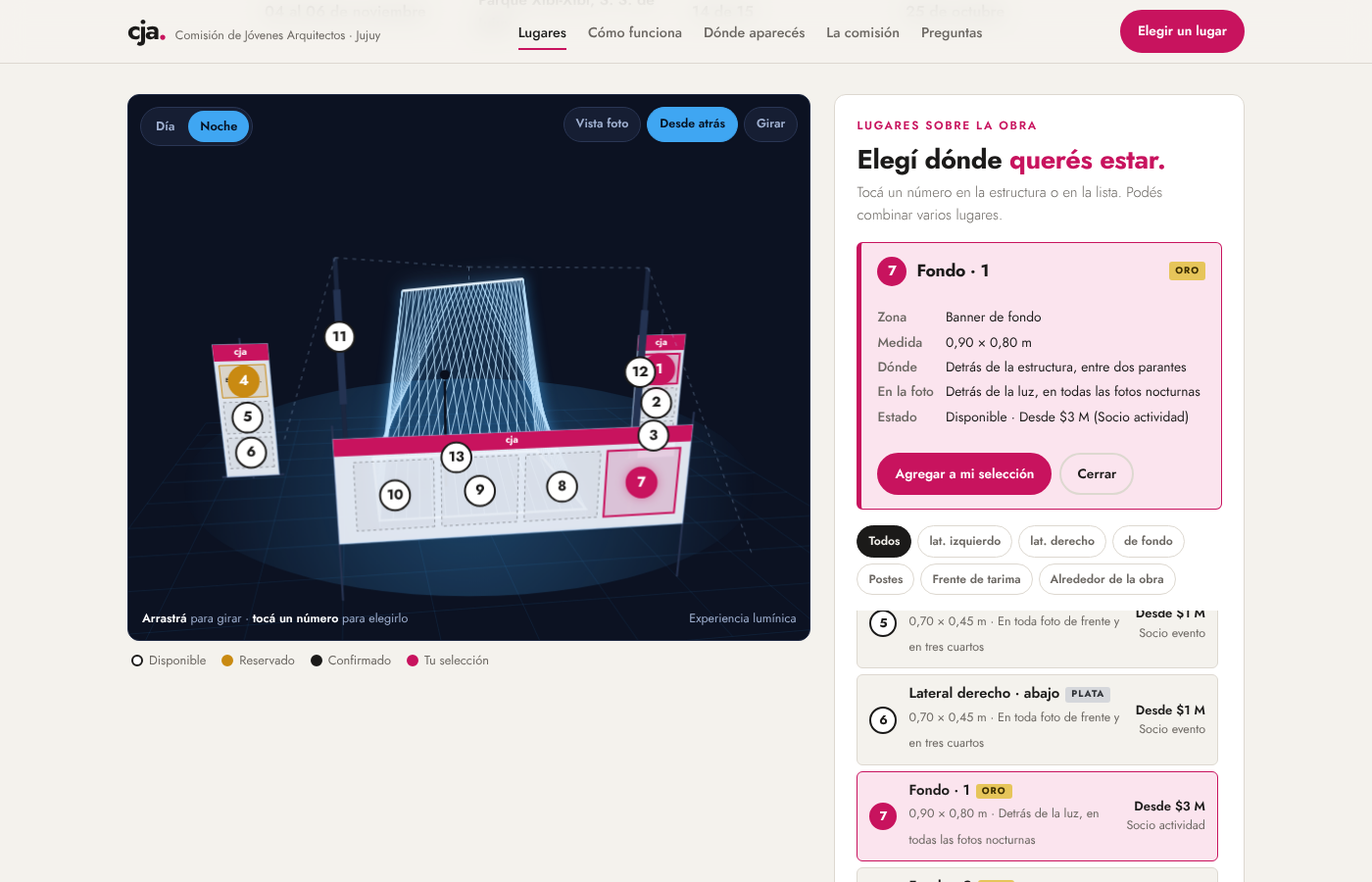
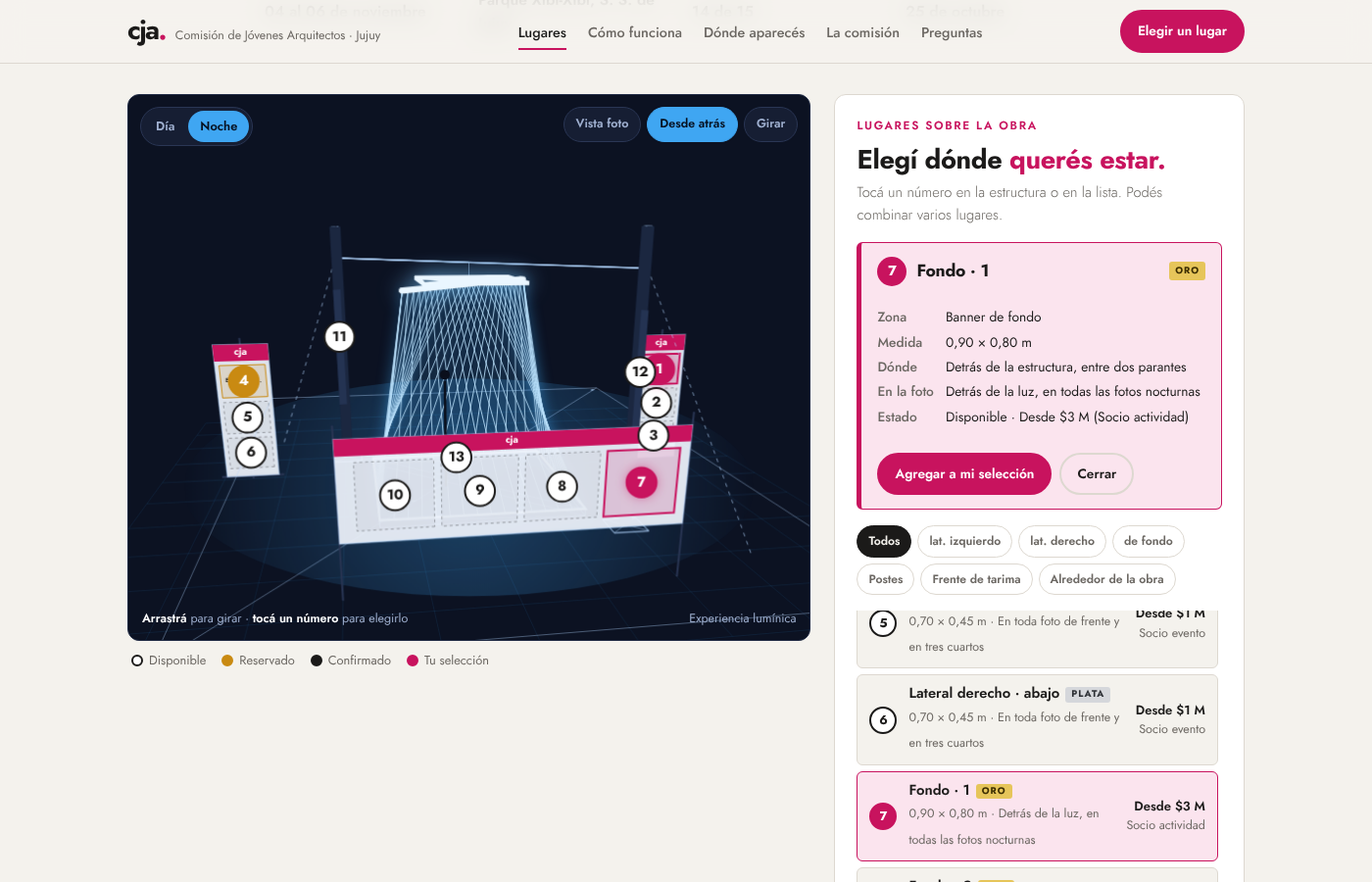
feat(sitio-cja): estructura del visor desde el GLB exportado de SketchUp
content/modelo.js con las líneas de tarima, viga, postes de 4 m, cable y
riendas extraídas de publicidad.glb. Los hilos se generan en app.js cada
0,20 m con la regla medida en el modelo (el GLB no exporta líneas).

Claude-Session: https://claude.ai/code/session_01AcELABFY21tac7ncyxPKsw

Changed region(s): [[0.2457, 0.2489, 0.4914, 0.4978], [0.215, 0.2489, 0.2457, 0.28]]

diff --git a/sitio-cja/content/modelo.js b/sitio-cja/content/modelo.js
@@ -1,0 +1,3 @@
+/* Estructura exportada de publicidad.skp (GLB). Metros: x derecha, y fondo, z arriba; origen en el centro de la tarima.
+   Generado automáticamente. Los hilos no vienen en el GLB (son líneas en SketchUp) y se generan en app.js con la regla medida en el archivo. */
+window.CJA_MODELO=[["cable",[1.924,-1.92,3.517],[-1.919,1.923,3.516]],["cable",[-1.925,1.917,3.515],[1.919,-1.926,3.515]],["cable",[-1.924,1.918,3.518],[1.92,-1.925,3.519]],["cable",[1.924,-1.921,3.513],[-1.92,1.922,3.512]],["cable",[1.92,-1.925,3.512],[-1.924,1.918,3.513]],["rienda",[-1.974,1.982,3.516],[-3.199,3.2,0.001]],["cable",[-1.924,1.918,3.514],[1.919,-1.926,3.515]],["cable",[-1.919,1.923,3.515],[1.924,-1.921,3.514]],["viga",[0.746,-0.743,3.515],[1.924,-1.92,3.516]],["viga",[1.924,-1.921,3.514],[0.746,-0.743,3.515]],["viga",[-1.919,1.923,3.516],[0.003,0.001,3.515]],["viga",[0.003,0.001,3.515],[1.924,-1.921,3.514]],["viga",[0.003,0.001,3.515],[0.746,-0.743,3.515]],["rienda",[-1.975,1.982,3.516],[-3.2,3.2,0.001]],["viga",[1.924,-1.92,3.516],[0.003,0.001,3.515]],["rienda",[3.198,-3.204,0.001],[1.978,-1.982,3.516]],["rienda",[3.197,-3.205,0.001],[1.976,-1.983,3.516]],["estructura",[3.83,4.672,0.001],[3.83,-7.288,0.001]],["estructura",[3.83,-7.288,0.001],[-4.53,-7.288,0.001]],["estructura",[3.83,4.672,0.001],[-4.53,-7.288,0.001]],["estructura",[-4.53,-7.288,0.001],[-4.53,4.672,0.001]],["estructura",[-4.53,4.672,0.001],[3.83,4.672,0.001]],["estructura",[-4.365,-6.988,0.021],[-4.316,-6.979,0.009]],["estructura",[-4.316,-6.979,0.009],[-4.284,-6.973,0.017]],["estructura",[-4.365,-6.988,0.021],[-4.284,-6.973,0.017]],["estructura",[-4.336,-6.983,0.022],[-4.284,-6.973,0.017]],["estructura",[-4.317,-6.979,0.025],[-4.284,-6.973,0.017]],["estructura",[-1.5,1.495,0.131],[-1.5,-0.502,0.131]],["estructura",[-1.5,1.498,0.131],[-1.5,1.498,0.101]],["estructura",[-1.5,1.495,0.101],[-1.47,1.495,0.104]],["estructura",[-1.497,1.495,0.104],[-1.497,-0.502,0.131]],["estructura",[-1.497,-0.502,0.104],[-1.497,1.495,0.104]],["estructura",[-1.5,-0.502,0.131],[-1.5,-0.502,0.101]],["estructura",[-1.5,1.495,0.131],[-1.5,-0.502,0.101]],["estructura",[-1.47,-0.502,0.101],[-1.47,1.495,0.104]],["estructura",[-1.497,1.495,0.104],[-1.47,-0.502,0.104]],["estructura",[-2.2,2.198,0.011],[-1.7,2.198,0.011]],["estructura",[-1.7,2.198,0.011],[-2.2,2.198,0.001]],["estructura",[-2.2,2.198,0.001],[-1.7,2.198,0.001]],["estructura",[-1.7,1.698,0.001],[-1.7,2.198,0.001]],["estructura",[-1.7,1.698,0.001],[-1.7,2.198,0.011]],["estructura",[-1.7,2.198,0.011],[-1.7,1.698,0.011]],["estructura",[-2.2,1.698,0.011],[-1.95,1.948,0.011]],["estructura",[-2.2,2.198,0.011],[-2.2,1.698,0.011]],["estructura",[-1.95,1.948,0.011],[-2.2,2.198,0.011]],["estructura",[-2.2,1.698,0.001],[-1.7,1.698,0.001]],["estructura",[-2.2,1.698,0.001],[-1.7,1.698,0.011]],["estructura",[-1.7,1.698,0.011],[-2.2,1.698,0.011]],["estructura",[-2.2,2.198,0.011],[-2.2,1.698,0.001]],["estructura",[-2.2,1.698,0.001],[-2.2,2.198,0.001]],["estructura",[-1.95,1.948,0.011],[-1.7,2.198,0.011]],["estructura",[-1.7,1.698,0.011],[-1.95,1.948,0.011]],["estructura",[-1.5,-1.502,0.001],[1.5,-1.502,0.001]],["estructura",[-1.5,-1.502,0.001],[-1.5,1.498,0.001]],["estructura",[1.5,-1.502,0.001],[-1.5,1.498,0.001]],["estructura",[-1.5,1.498,0.001],[1.5,1.498,0.001]],["estructura",[1.5,-1.502,0.001],[1.5,1.498,0.001]],["estructura",[1.5,1.498,0.001],[1.5,1.498,0.101]],["estructura",[-1.5,1.498,0.001],[1.5,1.498,0.101]],["estructura",[-1.5,1.495,0.104],[1.5,1.495,0.104]],["estructura",[-1.5,1.498,0.001],[-1.5,1.498,0.101]],["estructura",[1.5,-1.499,0.104],[-1.5,-1.499,0.104]],["estructura",[-1.5,-1.502,0.101],[-1.5,-1.502,0.001]],["estructura",[1.5,-1.502,0.101],[-1.5,-1.502,0.001]],["estructura",[1.5,-1.502,0.101],[1.5,-1.502,0.001]],["estructura",[1.5,1.498,0.101],[1.5,-1.502,0.101]],["estructura",[-1.5,1.498,0.101],[1.5,-1.502,0.101]],["estructura",[-1.5,1.498,0.101],[-1.5,-1.502,0.101]],["estructura",[-1.5,-1.502,0.001],[-1.5,1.498,0.101]],["estructura",[1.5,1.498,0.101],[1.5,-1.502,0.001]],["estructura",[1.5,1.498,0.131],[-1.5,1.498,0.131]],["estructura",[1.5,1.498,0.101],[1.5,1.498,0.131]],["estructura",[1.5,1.495,0.104],[-1.5,1.495,0.131]],["estructura",[1.5,1.498,0.131],[-1.5,1.498,0.101]],["estructura",[-1.5,1.468,0.101],[1.5,1.468,0.104]],["estructura",[1.5,1.495,0.104],[-1.5,1.468,0.104]],["estructura",[1.5,0.498,0.131],[1.5,-1.499,0.131]],["estructura",[1.5,-1.502,0.101],[1.5,-1.502,0.131]],["estructura",[1.47,-1.499,0.101],[1.5,-1.499,0.101]],["estructura",[1.497,0.498,0.104],[1.497,-1.499,0.131]],["estructura",[1.497,0.498,0.104],[1.497,-1.499,0.104]],["estructura",[1.5,0.498,0.101],[1.5,0.498,0.131]],["estructura",[1.5,-1.499,0.101],[1.5,0.498,0.131]],["estructura",[1.47,0.498,0.104],[1.47,-1.499,0.101]],["estructura",[1.497,-1.499,0.104],[1.47,0.498,0.104]],["estructura",[1.7,-1.702,0.011],[2.2,-1.702,0.011]],["estructura",[2.2,-1.702,0.011],[1.7,-1.702,0.001]],["estructura",[1.7,-1.702,0.001],[2.2,-1.702,0.001]],["estructura",[2.2,-2.202,0.001],[2.2,-1.702,0.001]],["estructura",[2.2,-2.202,0.001],[2.2,-1.702,0.011]],["estructura",[2.2,-1.702,0.011],[2.2,-2.202,0.011]],["estructura",[1.7,-2.202,0.011],[1.95,-1.952,0.011]],["estructura",[1.7,-1.702,0.011],[1.7,-2.202,0.011]],["estructura",[1.95,-1.952,0.011],[1.7,-1.702,0.011]],["estructura",[1.7,-2.202,0.001],[2.2,-2.202,0.001]],["estructura",[1.7,-2.202,0.001],[2.2,-2.202,0.011]],["estructura",[2.2,-2.202,0.011],[1.7,-2.202,0.011]],["estructura",[1.7,-1.702,0.011],[1.7,-2.202,0.001]],["estructura",[1.7,-2.202,0.001],[1.7,-1.702,0.001]],["estructura",[1.95,-1.952,0.011],[2.2,-1.702,0.011]],["estructura",[2.2,-2.202,0.011],[1.95,-1.952,0.011]],["estructura",[0.922,0.796,0.121],[0.971,0.805,0.11]],["estructura",[0.971,0.805,0.11],[1.003,0.811,0.118]],["estructura",[0.922,0.796,0.121],[1.003,0.811,0.118]],["estructura",[0.951,0.801,0.123],[1.003,0.811,0.118]],["estructura",[0.971,0.805,0.125],[1.003,0.811,0.118]],["estructura",[1.5,-1.502,0.131],[-1.5,-1.502,0.131]],["estructura",[-1.5,-1.502,0.131],[-1.5,-1.502,0.101]],["estructura",[1.5,-1.499,0.104],[-1.5,-1.499,0.131]],["estructura",[-1.5,-1.502,0.101],[1.5,-1.502,0.131]],["estructura",[1.5,-1.472,0.104],[-1.5,-1.472,0.101]],["estructura",[-1.5,-1.499,0.104],[1.5,-1.472,0.104]],["viga",[-0.717,0.723,3.248],[-0.741,0.747,3.248]],["viga",[-0.741,0.747,3.248],[-0.717,0.706,3.248]],["viga",[-0.741,0.747,3.248],[0.746,0.747,3.248]],["viga",[-0.717,0.723,3.248],[0.746,0.747,3.248]],["viga",[-0.741,-0.741,3.248],[-0.741,0.747,3.248]],["viga",[-0.741,-0.741,3.248],[-0.717,0.706,3.248]],["viga",[0.706,0.723,3.248],[-0.717,0.723,3.248]],["viga",[0.706,0.723,3.248],[0.746,0.747,3.248]],["viga",[-0.717,-0.7,3.248],[-0.717,0.706,3.248]],["viga",[-0.741,-0.741,3.248],[-0.717,-0.7,3.248]],["viga",[0.723,0.723,3.248],[0.746,0.747,3.248]],["viga",[-0.741,-0.741,3.248],[-0.717,-0.717,3.248]],["viga",[0.723,0.706,3.248],[0.746,0.747,3.248]],["viga",[-0.741,-0.741,3.248],[0.746,-0.741,3.248]],["viga",[0.746,-0.741,3.248],[-0.717,-0.717,3.248]],["viga",[0.723,-0.7,3.248],[0.723,0.706,3.248]],["viga",[0.723,-0.7,3.248],[0.746,0.747,3.248]],["viga",[0.746,-0.741,3.248],[-0.701,-0.717,3.248]],["viga",[0.723,-0.717,3.248],[0.746,0.747,3.248]],["viga",[-0.701,-0.717,3.248],[0.723,-0.717,3.248]],["viga",[0.746,-0.741,3.248],[0.723,-0.717,3.248]],["viga",[0.746,-0.741,3.248],[0.746,0.747,3.248]],["viga",[-0.717,0.723,3.276],[-0.741,0.747,3.276]],["viga",[-0.741,0.747,3.276],[-0.717,0.706,3.276]],["viga",[0.746,0.747,3.276],[-0.741,0.747,3.276]],["viga",[-0.717,0.723,3.276],[0.746,0.747,3.276]],["viga",[-0.741,0.747,3.276],[-0.741,-0.741,3.276]],["viga",[-0.741,-0.741,3.276],[-0.717,0.706,3.276]],["viga",[0.706,0.723,3.276],[-0.717,0.723,3.276]],["viga",[0.706,0.723,3.276],[0.746,0.747,3.276]],["viga",[-0.717,0.706,3.276],[-0.717,-0.7,3.276]],["viga",[-0.741,-0.741,3.276],[-0.717,-0.7,3.276]],["viga",[0.723,0.723,3.276],[0.746,0.747,3.276]],["viga",[-0.741,-0.741,3.276],[-0.717,-0.717,3.276]],["viga",[0.723,0.706,3.276],[0.746,0.747,3.276]],["viga",[0.746,-0.741,3.276],[-0.741,-0.741,3.276]],["viga",[0.746,-0.741,3.276],[-0.717,-0.717,3.276]],["viga",[0.723,0.706,3.276],[0.723,-0.7,3.276]],["viga",[0.723,-0.7,3.276],[0.746,0.747,3.276]],["viga",[0.746,-0.741,3.276],[-0.701,-0.717,3.276]],["viga",[0.723,-0.717,3.276],[0.746,0.747,3.276]],["viga",[0.723,-0.717,3.276],[-0.701,-0.717,3.276]],["viga",[0.746,-0.741,3.276],[0.723,-0.717,3.276]],["viga",[0.746,0.747,3.276],[0.746,-0.741,3.276]],["viga",[0.746,-0.741,3.276],[-0.741,-0.741,3.248]],["viga",[-0.741,0.747,3.248],[0.746,0.747,3.276]],["viga",[-0.701,0.723,3.276],[-0.717,0.723,3.248]],["viga",[-0.717,0.706,3.276],[-0.717,-0.7,3.248]],["viga",[-0.717,-0.717,3.248],[-0.701,-0.717,3.276]],["viga",[0.723,-0.7,3.248],[0.723,0.706,3.276]],["viga",[0.706,0.723,3.276],[-0.701,0.723,3.276]],["viga",[0.706,0.723,3.276],[-0.701,0.723,3.248]],["viga",[-0.701,0.723,3.248],[0.706,0.723,3.248]],["viga",[0.723,0.723,3.276],[0.706,0.723,3.248]],["viga",[0.746,0.747,3.276],[0.746,-0.741,3.248]],["viga",[0.723,0.706,3.248],[0.723,0.723,3.276]],["viga",[-0.701,-0.717,3.248],[0.723,-0.717,3.276]],["viga",[0.723,-0.717,3.248],[0.723,-0.7,3.276]],["viga",[-0.717,-0.7,3.276],[-0.717,-0.717,3.248]],["viga",[-0.717,0.723,3.276],[-0.717,0.706,3.248]],["viga",[-0.741,-0.741,3.248],[-0.741,0.747,3.276]],["viga",[-0.717,-0.7,3.276],[-0.014,0.003,3.276]],["viga",[-0.014,0.003,3.276],[-0.717,-0.7,3.248]],["viga",[-0.717,-0.7,3.248],[-0.014,0.003,3.248]],["viga",[-0.701,0.723,3.248],[-0.005,0.028,3.248]],["viga",[-0.005,0.028,3.248],[-0.701,0.723,3.276]],["viga",[-0.701,0.723,3.276],[0.003,0.02,3.276]],["viga",[-0.701,0.723,3.276],[0.003,0.02,3.248]],["viga",[0.003,0.02,3.276],[0.706,0.723,3.276]],["viga",[0.706,0.723,3.276],[0.003,0.02,3.248]],["viga",[0.003,0.02,3.248],[0.706,0.723,3.248]],["viga",[-0.014,0.003,3.276],[-0.717,0.706,3.276]],["viga",[-0.717,0.706,3.276],[-0.014,0.003,3.248]],["viga",[-0.014,0.003,3.248],[-0.717,0.706,3.248]],["viga",[0.705,-0.716,3.248],[0.723,-0.717,3.276]],["viga",[0.723,0.706,3.248],[0.019,0.003,3.248]],["viga",[0.019,0.003,3.248],[0.723,0.706,3.276]],["viga",[0.723,0.706,3.276],[0.019,0.003,3.276]],["viga",[0.019,0.003,3.248],[0.723,-0.7,3.248]],["viga",[0.723,-0.7,3.248],[0.019,0.003,3.276]],["viga",[0.019,0.003,3.276],[0.723,-0.7,3.276]],["viga",[0.705,-0.716,3.276],[0.003,-0.014,3.276]],["viga",[0.003,-0.014,3.276],[0.705,-0.716,3.248]],["viga",[0.705,-0.716,3.248],[0.003,-0.014,3.248]],["viga",[0.003,-0.014,3.276],[-0.701,-0.717,3.276]],["viga",[0.003,-0.014,3.276],[-0.717,-0.717,3.276]],["viga",[-0.717,-0.717,3.276],[-0.014,0.003,3.276]],["viga",[-0.014,0.003,3.276],[-0.717,0.723,3.276]],["viga",[-0.717,0.723,3.276],[0.003,0.02,3.276]],["viga",[0.003,0.02,3.276],[0.723,0.723,3.276]],["viga",[0.723,0.723,3.276],[0.019,0.003,3.276]],["viga",[0.019,0.003,3.276],[0.723,-0.717,3.276]],["viga",[0.723,-0.717,3.276],[0.003,-0.014,3.276]],["viga",[0.003,-0.014,3.276],[0.003,0.02,3.276]],["viga",[0.003,-0.014,3.248],[-0.701,-0.717,3.248]],["viga",[-0.701,-0.717,3.248],[0.003,-0.014,3.276]],["viga",[0.723,0.706,3.248],[0.003,0.02,3.248]],["viga",[0.723,-0.717,3.248],[0.003,-0.014,3.248]],["viga",[0.011,-0.005,3.248],[0.723,-0.7,3.248]],["viga",[0.723,-0.7,3.248],[0.003,-0.014,3.248]],["viga",[-0.717,-0.7,3.248],[0.003,-0.014,3.248]],["viga",[-0.717,0.723,3.248],[-0.005,0.028,3.248]],["viga",[-0.006,0.011,3.248],[-0.717,0.706,3.248]],["viga",[-0.717,0.706,3.248],[-0.005,0.028,3.248]],["viga",[-0.209,-0.21,3.185],[0.003,0.002,3.185]],["viga",[-0.236,-0.183,3.185],[-0.209,-0.21,3.185]],["viga",[0.003,0.002,3.185],[-0.236,-0.183,3.185]],["viga",[-0.236,-0.183,3.185],[-0.024,0.029,3.185]],["viga",[0.003,0.002,3.185],[-0.024,0.029,3.185]],["viga",[-0.236,-0.183,3.229],[-0.024,0.029,3.229]],["viga",[-0.236,-0.183,3.185],[-0.236,-0.183,3.229]],["viga",[-0.024,0.029,3.229],[-0.236,-0.183,3.185]],["viga",[-0.024,0.029,3.185],[-0.024,0.029,3.229]],["viga",[0.215,0.214,3.229],[0.189,0.241,3.229]],["viga",[0.215,0.214,3.185],[0.215,0.214,3.229]],["viga",[0.189,0.241,3.229],[0.215,0.214,3.185]],["viga",[0.215,0.214,3.185],[0.189,0.241,3.185]],["viga",[0.189,0.241,3.229],[0.189,0.241,3.185]],["viga",[-0.209,-0.21,3.229],[0.003,0.002,3.229]],["viga",[-0.209,-0.21,3.185],[-0.209,-0.21,3.229]],["viga",[0.003,0.002,3.229],[-0.209,-0.21,3.185]],["viga",[0.003,0.002,3.185],[0.003,0.002,3.229]],["viga",[-0.209,-0.21,3.185],[-0.236,-0.183,3.229]],["viga",[-0.236,-0.183,3.229],[-0.209,-0.21,3.229]],["viga",[0.003,0.002,3.229],[-0.236,-0.183,3.229]],["viga",[-0.024,0.029,3.229],[0.003,0.002,3.229]],["viga",[0.003,0.002,3.185],[0.215,0.214,3.185]],["viga",[0.003,0.002,3.185],[0.215,0.214,3.229]],["viga",[0.003,0.002,3.229],[0.215,0.214,3.229]],["viga",[0.189,0.241,3.229],[-0.024,0.029,3.229]],["viga",[-0.024,0.029,3.229],[0.215,0.214,3.229]],["viga",[-0.024,0.029,3.185],[0.189,0.241,3.185]],["viga",[-0.024,0.029,3.185],[0.189,0.241,3.229]],["viga",[-0.024,0.029,3.185],[0.215,0.214,3.185]],["viga",[-0.024,0.029,3.229],[0.003,0.002,3.185]],["viga",[-1.057,-1.058,3.185],[-1.084,-1.031,3.185]],["viga",[-1.084,-1.031,3.185],[-0.236,-0.183,3.185]],["viga",[-1.057,-1.058,3.185],[-0.236,-0.183,3.185]],["viga",[-1.057,-1.058,3.185],[-0.209,-0.21,3.185]],["viga",[-1.084,-1.031,3.185],[-0.236,-0.183,3.229]],["viga",[-1.084,-1.031,3.229],[-0.236,-0.183,3.229]],["viga",[-1.084,-1.031,3.185],[-1.084,-1.031,3.229]],["viga",[-1.057,-1.058,3.229],[-0.209,-0.21,3.229]],["viga",[-1.057,-1.058,3.185],[-1.057,-1.058,3.229]],["viga",[-0.209,-0.21,3.229],[-1.057,-1.058,3.185]],["viga",[-1.057,-1.058,3.185],[-1.084,-1.031,3.229]],["viga",[-1.057,-1.058,3.229],[-1.084,-1.031,3.229]],["viga",[-0.236,-0.183,3.229],[-1.057,-1.058,3.229]],["viga",[0.215,0.214,3.185],[0.242,0.188,3.185]],["viga",[1.064,1.063,3.185],[0.215,0.214,3.185]],["viga",[0.242,0.188,3.185],[1.064,1.063,3.185]],["viga",[1.091,1.036,3.185],[1.064,1.063,3.185]],["viga",[0.242,0.188,3.185],[1.091,1.036,3.185]],["viga",[1.064,1.063,3.229],[1.064,1.063,3.185]],["viga",[0.215,0.214,3.185],[1.064,1.063,3.229]],["viga",[1.064,1.063,3.229],[0.215,0.214,3.229]],["viga",[1.064,1.063,3.229],[1.091,1.036,3.229]],["viga",[1.091,1.036,3.185],[1.091,1.036,3.229]],["viga",[1.064,1.063,3.229],[1.091,1.036,3.185]],["viga",[1.091,1.036,3.229],[0.242,0.188,3.229]],["viga",[0.242,0.188,3.185],[0.242,0.188,3.229]],["viga",[1.091,1.036,3.229],[0.242,0.188,3.185]],["viga",[0.242,0.188,3.185],[0.215,0.214,3.229]],["viga",[0.215,0.214,3.229],[0.242,0.188,3.229]],["viga",[1.064,1.063,3.229],[0.242,0.188,3.229]],["viga",[-0.182,-0.237,3.185],[0.03,-0.025,3.185]],["viga",[-0.209,-0.21,3.185],[-0.182,-0.237,3.185]],["viga",[0.03,-0.025,3.185],[-0.209,-0.21,3.185]],["viga",[0.03,-0.025,3.185],[0.003,0.002,3.185]],["viga",[0.03,-0.025,3.229],[-0.182,-0.237,3.229]],["viga",[-0.182,-0.237,3.185],[-0.182,-0.237,3.229]],["viga",[0.03,-0.025,3.229],[-0.182,-0.237,3.185]],["viga",[0.03,-0.025,3.229],[0.03,-0.025,3.185]],["viga",[-0.182,-0.237,3.185],[-0.209,-0.21,3.229]],["viga",[-0.209,-0.21,3.229],[-0.182,-0.237,3.229]],["viga",[0.03,-0.025,3.229],[-0.209,-0.21,3.229]],["viga",[0.003,0.002,3.229],[0.03,-0.025,3.229]],["viga",[0.242,0.188,3.185],[0.03,-0.025,3.185]],["viga",[0.03,-0.025,3.185],[0.242,0.188,3.229]],["viga",[0.242,0.188,3.229],[0.03,-0.025,3.229]],["viga",[0.003,0.002,3.229],[0.242,0.188,3.229]],["viga",[0.003,0.002,3.185],[0.242,0.188,3.185]],["viga",[0.003,0.002,3.229],[0.03,-0.025,3.185]],["viga",[0.189,0.241,3.185],[1.037,1.09,3.185]],["viga",[0.215,0.214,3.185],[1.037,1.09,3.185]],["viga",[1.064,1.063,3.185],[1.037,1.09,3.185]],["viga",[1.037,1.09,3.185],[1.037,1.09,3.229]],["viga",[0.189,0.241,3.185],[1.037,1.09,3.229]],["viga",[0.189,0.241,3.229],[1.037,1.09,3.229]],["viga",[1.037,1.09,3.229],[1.064,1.063,3.229]],["viga",[1.037,1.09,3.229],[1.064,1.063,3.185]],["viga",[1.037,1.09,3.229],[0.215,0.214,3.229]],["viga",[-1.031,-1.085,3.185],[-1.057,-1.058,3.185]],["viga",[-1.031,-1.085,3.185],[-0.209,-0.21,3.185]],["viga",[-1.031,-1.085,3.185],[-0.182,-0.237,3.185]],["viga",[-0.182,-0.237,3.229],[-1.031,-1.085,3.229]],["viga",[-1.031,-1.085,3.229],[-1.031,-1.085,3.185]],["viga",[-0.182,-0.237,3.229],[-1.031,-1.085,3.185]],["viga",[-1.031,-1.085,3.185],[-1.057,-1.058,3.229]],["viga",[-1.031,-1.085,3.229],[-1.057,-1.058,3.229]],["viga",[-0.209,-0.21,3.229],[-1.031,-1.085,3.229]],["estructura",[-2.004,1.951,0.011],[-1.947,2.008,0.011]],["poste",[-1.947,2.008,0.011],[-1.947,2.008,4.016]],["poste",[-2.004,1.951,0.011],[-1.947,2.008,4.016]],["viga",[-2.004,1.951,4.016],[-1.947,2.008,4.016]],["poste",[-2.004,1.951,0.011],[-2.004,1.951,4.016]],["viga",[-1.919,1.923,4.016],[-1.947,1.895,4.016]],["poste",[-1.947,1.895,4.016],[-1.947,1.895,0.011]],["poste",[-1.919,1.923,4.016],[-1.947,1.895,0.011]],["estructura",[-1.947,1.895,0.011],[-1.891,1.951,0.011]],["poste",[-1.891,1.951,4.016],[-1.891,1.951,0.011]],["poste",[-1.947,1.895,0.011],[-1.891,1.951,4.016]],["viga",[-1.891,1.951,4.016],[-1.919,1.923,4.016]],["viga",[-1.947,2.008,4.016],[-1.891,1.951,4.016]],["viga",[-1.947,2.008,4.016],[-1.919,1.923,4.016]],["viga",[-2.004,1.951,4.016],[-1.947,1.895,4.016]],["viga",[-1.919,1.923,4.016],[-2.004,1.951,4.016]],["poste",[-1.947,2.008,4.016],[-1.891,1.951,0.011]],["estructura",[-1.891,1.951,0.011],[-1.947,2.008,0.011]],["estructura",[-1.947,1.895,0.011],[-2.004,1.951,0.011]],["poste",[-1.947,1.895,0.011],[-2.004,1.951,4.016]],["estructura",[1.893,-1.952,0.011],[1.95,-1.895,0.011]],["poste",[1.95,-1.895,0.011],[1.95,-1.895,4.016]],["poste",[1.893,-1.952,0.011],[1.95,-1.895,4.016]],["viga",[1.893,-1.952,4.016],[1.95,-1.895,4.016]],["poste",[1.893,-1.952,0.011],[1.893,-1.952,4.016]],["viga",[1.978,-1.98,4.016],[1.95,-2.008,4.016]],["poste",[1.95,-2.008,4.016],[1.95,-2.008,0.011]],["poste",[1.978,-1.98,4.016],[1.95,-2.008,0.011]],["estructura",[1.95,-2.008,0.011],[2.006,-1.952,0.011]],["poste",[2.006,-1.952,4.016],[2.006,-1.952,0.011]],["poste",[1.95,-2.008,0.011],[2.006,-1.952,4.016]],["viga",[2.006,-1.952,4.016],[1.978,-1.98,4.016]],["viga",[1.95,-1.895,4.016],[2.006,-1.952,4.016]],["viga",[1.95,-1.895,4.016],[1.978,-1.98,4.016]],["viga",[1.893,-1.952,4.016],[1.95,-2.008,4.016]],["viga",[1.978,-1.98,4.016],[1.893,-1.952,4.016]],["poste",[1.95,-1.895,4.016],[2.006,-1.952,0.011]],["estructura",[2.006,-1.952,0.011],[1.95,-1.895,0.011]],["estructura",[1.95,-2.008,0.011],[1.893,-1.952,0.011]],["poste",[1.95,-2.008,0.011],[1.893,-1.952,4.016]]];

diff --git a/sitio-cja/app.js b/sitio-cja/app.js
@@ -18,17 +18,17 @@
   $('cWeb').textContent=D.contacto.web; $('cWeb').href='https://'+D.contacto.web;
 
   /* ---------- Geometría (metros) ---------- */
-  // Geometría leída de publicidad.skp (SketchUp 2019): tarima 3×3 m, hilos desde el perímetro a una viga
-  // diagonal de 3,00 m a 3,205 m de altura; postes de 3,52 m en la diagonal opuesta, a 2,80 m del centro,
-  // con cable entre postes, tensor colgante y riendas a tierra.
-  const B=1.5, Z0=0.11, POST=3.52, PD=1.98, RIDGE=1.5, H=3.205, HANG_Z=3.45, STEP=16;
+  // Partes rígidas (tarima, viga, postes, cable, riendas): líneas de content/modelo.js, exportadas del .skp.
+  // Hilos: del perímetro de la tarima a la viga diagonal, cada 0,20 m, con la regla medida en el archivo.
+  const B=1.5, Z0=0.11, POST=4.016, PD=1.98, RIDGE=1.5, H=3.205, HANG_Z=3.516;
+  const MODEL=(window.CJA_MODELO||[]).map(l=>({c:l[0],a:l[1],b:l[2]}));
   const ridgePt=t=>{t=Math.max(-RIDGE,Math.min(RIDGE,t));return [t/Math.SQRT2,t/Math.SQRT2,H];};
   const strings=[];
-  for(let i=0;i<=STEP;i++){const f=i/STEP;
-    strings.push([[-B+3*f,-B,Z0],ridgePt(1.8*f-1.5)]);   // frente
-    strings.push([[ B,-B+3*f,Z0],ridgePt(1.8*f+0.3)]);   // derecha
-    strings.push([[-B+3*f, B,Z0],ridgePt(1.8*f-0.3)]);   // fondo
-    strings.push([[-B,-B+3*f,Z0],ridgePt(1.8*f-2.1)]);   // izquierda
+  for(let k=0;k<14;k++){const u=-1.3+0.2*k, f=(u+1.5)/3;
+    strings.push([[u,-B,Z0],ridgePt(1.8*f-1.5)]);   // frente
+    strings.push([[ B,u,Z0],ridgePt(1.8*f+0.3)]);   // derecha
+    strings.push([[u, B,Z0],ridgePt(1.8*f-0.3)]);   // fondo
+    strings.push([[-B,u,Z0],ridgePt(1.8*f-2.1)]);   // izquierda
   }
   function perim(u,s,rot,z){u=((u%1)+1)%1;const k=u*4,side=Math.floor(k),f=k-side;let x,y;
     if(side===0){x=-s+2*s*f;y=-s}else if(side===1){x=s;y=-s+2*s*f}else if(side===2){x=s-2*s*f;y=s}else{x=-s;y=s-2*s*f}
@@ -58,8 +58,8 @@
   // franja frontal de tarima
   SPOT[13]={q:[[-B,-B,0],[B,-B,0],[B,-B,Z0],[-B,-B,Z0]],anchor:[0,-B,Z0/2],kind:'strip'};
   // extras: anclados a un costado (láminas y remeras no están sobre la obra)
-  SPOT[14]={q:null,anchor:[-5.3,2.0,1.4],kind:'float'};
-  SPOT[15]={q:null,anchor:[5.3,2.0,1.0],kind:'float'};
+  SPOT[14]={q:null,anchor:[-5.7,2.0,1.4],kind:'float'};
+  SPOT[15]={q:null,anchor:[5.7,2.0,1.0],kind:'float'};
 
   /* ---------- Canvas ---------- */
   const cv=$('cv'),ctx=cv.getContext('2d'),stage=$('stage');
@@ -86,23 +86,26 @@
     ctx.fillStyle=night?'rgba(63,166,242,.08)':'rgba(27,26,25,.05)';ctx.beginPath();poly(base);ctx.fill();
     // franja frontal (lugar 13)
     const S=SPOT[13].q.map(proj);ctx.beginPath();path2(S);ctx.fillStyle=byN.get(13).sponsor||sel.has(13)||focus===13?spotFill(13):'rgba(200,19,94,.0)';ctx.fill();ctx.lineWidth=1;ctx.strokeStyle=spotStroke(13);ctx.stroke();
-    // postes (+ vinilos 11 y 12)
-    posts.forEach(([x,y],i)=>{const num=i===0?11:12;ctx.beginPath();line([x,y,0],[x,y,POST]);ctx.lineWidth=Math.max(3,W*0.007);ctx.strokeStyle=night?'#1b2740':'#2b2a28';ctx.stroke();
-      ctx.beginPath();line([x,y,1.0],[x,y,3.0]);ctx.lineWidth=Math.max(5,W*0.011);ctx.strokeStyle=sel.has(num)||focus===num?'#C8135E':(byN.get(num).estado==='reservado'?'#C98A12':(byN.get(num).estado==='confirmado'?'#4a4642':(night?'#243352':'#d9d4cb')));ctx.stroke();});
-    // cable entre postes (pasa sobre el centro), tensor colgante y riendas a tierra
-    ctx.beginPath();ctx.lineWidth=1;ctx.setLineDash([4,5]);
-    line([PD,-PD,POST],[0,0,HANG_Z]);line([0,0,HANG_Z],[-PD,PD,POST]);line([0,0,HANG_Z],[0,0,H]);
-    line([PD,-PD,POST],[PD*1.62,-PD*1.62,0]);line([-PD,PD,POST],[-PD*1.62,PD*1.62,0]);
-    ctx.strokeStyle=night?'rgba(180,215,255,.35)':'rgba(27,26,25,.45)';ctx.stroke();ctx.setLineDash([]);
-    // hilos: del perímetro de la tarima a la viga diagonal (superficie reglada)
+    // partes rígidas del modelo
+    const stroke=(cat,style,w,dash)=>{ctx.beginPath();MODEL.forEach(l=>{if(l.c===cat)line(l.a,l.b);});ctx.lineWidth=w;ctx.strokeStyle=style;ctx.setLineDash(dash||[]);ctx.stroke();ctx.setLineDash([]);};
+    stroke('estructura',night?'rgba(180,215,255,.4)':'rgba(27,26,25,.55)',1);
+    stroke('rienda',night?'rgba(180,215,255,.35)':'rgba(27,26,25,.45)',1,[4,5]);
+    stroke('cable',night?'rgba(180,215,255,.45)':'rgba(27,26,25,.55)',1);
+    ctx.beginPath();MODEL.forEach(l=>{if(l.c==='viga'&&l.a[2]>3.35)line(l.a,l.b);});ctx.lineWidth=1;ctx.strokeStyle=night?'rgba(180,215,255,.45)':'rgba(27,26,25,.55)';ctx.stroke();
+    stroke('poste',night?'#1b2740':'#2b2a28',Math.max(3,W*0.006));
+    // vinilos de los postes (lugares 11 y 12)
+    posts.forEach(([x,y],i)=>{const num=i===0?11:12;ctx.beginPath();line([x,y,1.0],[x,y,3.0]);ctx.lineWidth=Math.max(5,W*0.011);ctx.strokeStyle=sel.has(num)||focus===num?'#C8135E':(byN.get(num).estado==='reservado'?'#C98A12':(byN.get(num).estado==='confirmado'?'#4a4642':(night?'#243352':'#d9d4cb')));ctx.stroke();});
+    // tensor colgante del cable a la viga
+    ctx.beginPath();line([0,0,HANG_Z],[0,0,H]);ctx.lineWidth=1;ctx.strokeStyle=night?'rgba(180,215,255,.45)':'rgba(27,26,25,.55)';ctx.stroke();
+    // hilos
     ctx.beginPath();strings.forEach(([a,b])=>line(a,b));
     if(night){ctx.shadowColor=`rgba(63,166,242,${0.9*pulse})`;ctx.shadowBlur=14;ctx.strokeStyle=`rgba(190,228,255,${0.55+0.3*pulse})`;ctx.lineWidth=1;}
     else{ctx.strokeStyle='rgba(27,26,25,.45)';ctx.lineWidth=0.8;}
     ctx.stroke();ctx.shadowBlur=0;
     // tarima iluminada y viga superior
-    ctx.beginPath();poly(base);line(ridgePt(-RIDGE),ridgePt(RIDGE));
-    if(night){ctx.shadowColor=`rgba(120,200,255,${pulse})`;ctx.shadowBlur=22;ctx.strokeStyle='#eaf6ff';ctx.lineWidth=2.6;}
-    else{ctx.strokeStyle='#1B1A19';ctx.lineWidth=2.6;}
+    ctx.beginPath();poly(base);line(ridgePt(-RIDGE),ridgePt(RIDGE));MODEL.forEach(l=>{if(l.c==='viga'&&l.a[2]<=3.35)line(l.a,l.b);});
+    if(night){ctx.shadowColor=`rgba(120,200,255,${pulse})`;ctx.shadowBlur=22;ctx.strokeStyle='#eaf6ff';ctx.lineWidth=2.2;}
+    else{ctx.strokeStyle='#1B1A19';ctx.lineWidth=2.2;}
     ctx.stroke();ctx.shadowBlur=0;
     const p0=proj([0.4,0.2,Z0]),p1=proj([0.4,0.2,Z0+1.7]);
     ctx.beginPath();ctx.moveTo(p0[0],p0[1]);ctx.lineTo(p1[0],p1[1]);ctx.lineWidth=2.5;ctx.strokeStyle=night?'#0a0f1c':'#C8135E';ctx.stroke();

diff --git a/sitio-cja/index.html b/sitio-cja/index.html
@@ -195,6 +195,7 @@
 </footer>
 
 <script src="content/lugares.js"></script>
+<script src="content/modelo.js"></script>
 <script src="app.js"></script>
 </body>
 </html>

diff --git a/sitio-cja/README.md b/sitio-cja/README.md
@@ -17,6 +17,7 @@ Cloudflare Pages.
 | `styles.css` | Estilos (paleta del brochure COPAUJ 2026) |
 | `app.js` | Motor 3D de la estructura, lugares numerados, panel de selección, mensaje de reserva |
 | `content/lugares.js` | **Único archivo que se edita**: evento, contacto, zonas y los 15 lugares |
+| `content/modelo.js` | Líneas de la estructura, generadas del GLB exportado de SketchUp (no editar a mano) |
 | `sponsors/` | Logos de sponsors (PNG o SVG con fondo transparente) |
 
 ## Cómo reservar o confirmar un lugar
@@ -48,4 +49,4 @@ Para el QR de la placa física usá la URL final del deploy.
 ## Pendientes
 
 - `og.png`: render de la estructura para la vista previa en WhatsApp e Instagram (1200 × 630).
-- La geometría del visor se tomó del archivo `publicidad.skp` (tarima 3×3, viga diagonal a 3,205 m, postes de 3,52 m). Si el modelo cambia, los parámetros están al inicio de `app.js`.
+- La estructura del visor sale del GLB exportado de `publicidad.skp` (tarima, viga diagonal a 3,205 m, postes de 4,00 m, cable y riendas). Los hilos no viajan en el GLB porque en SketchUp son líneas; se generan en `app.js` cada 0,20 m con la regla medida en el archivo. Si el modelo cambia, exportar de nuevo a GLB y regenerar `content/modelo.js`.
